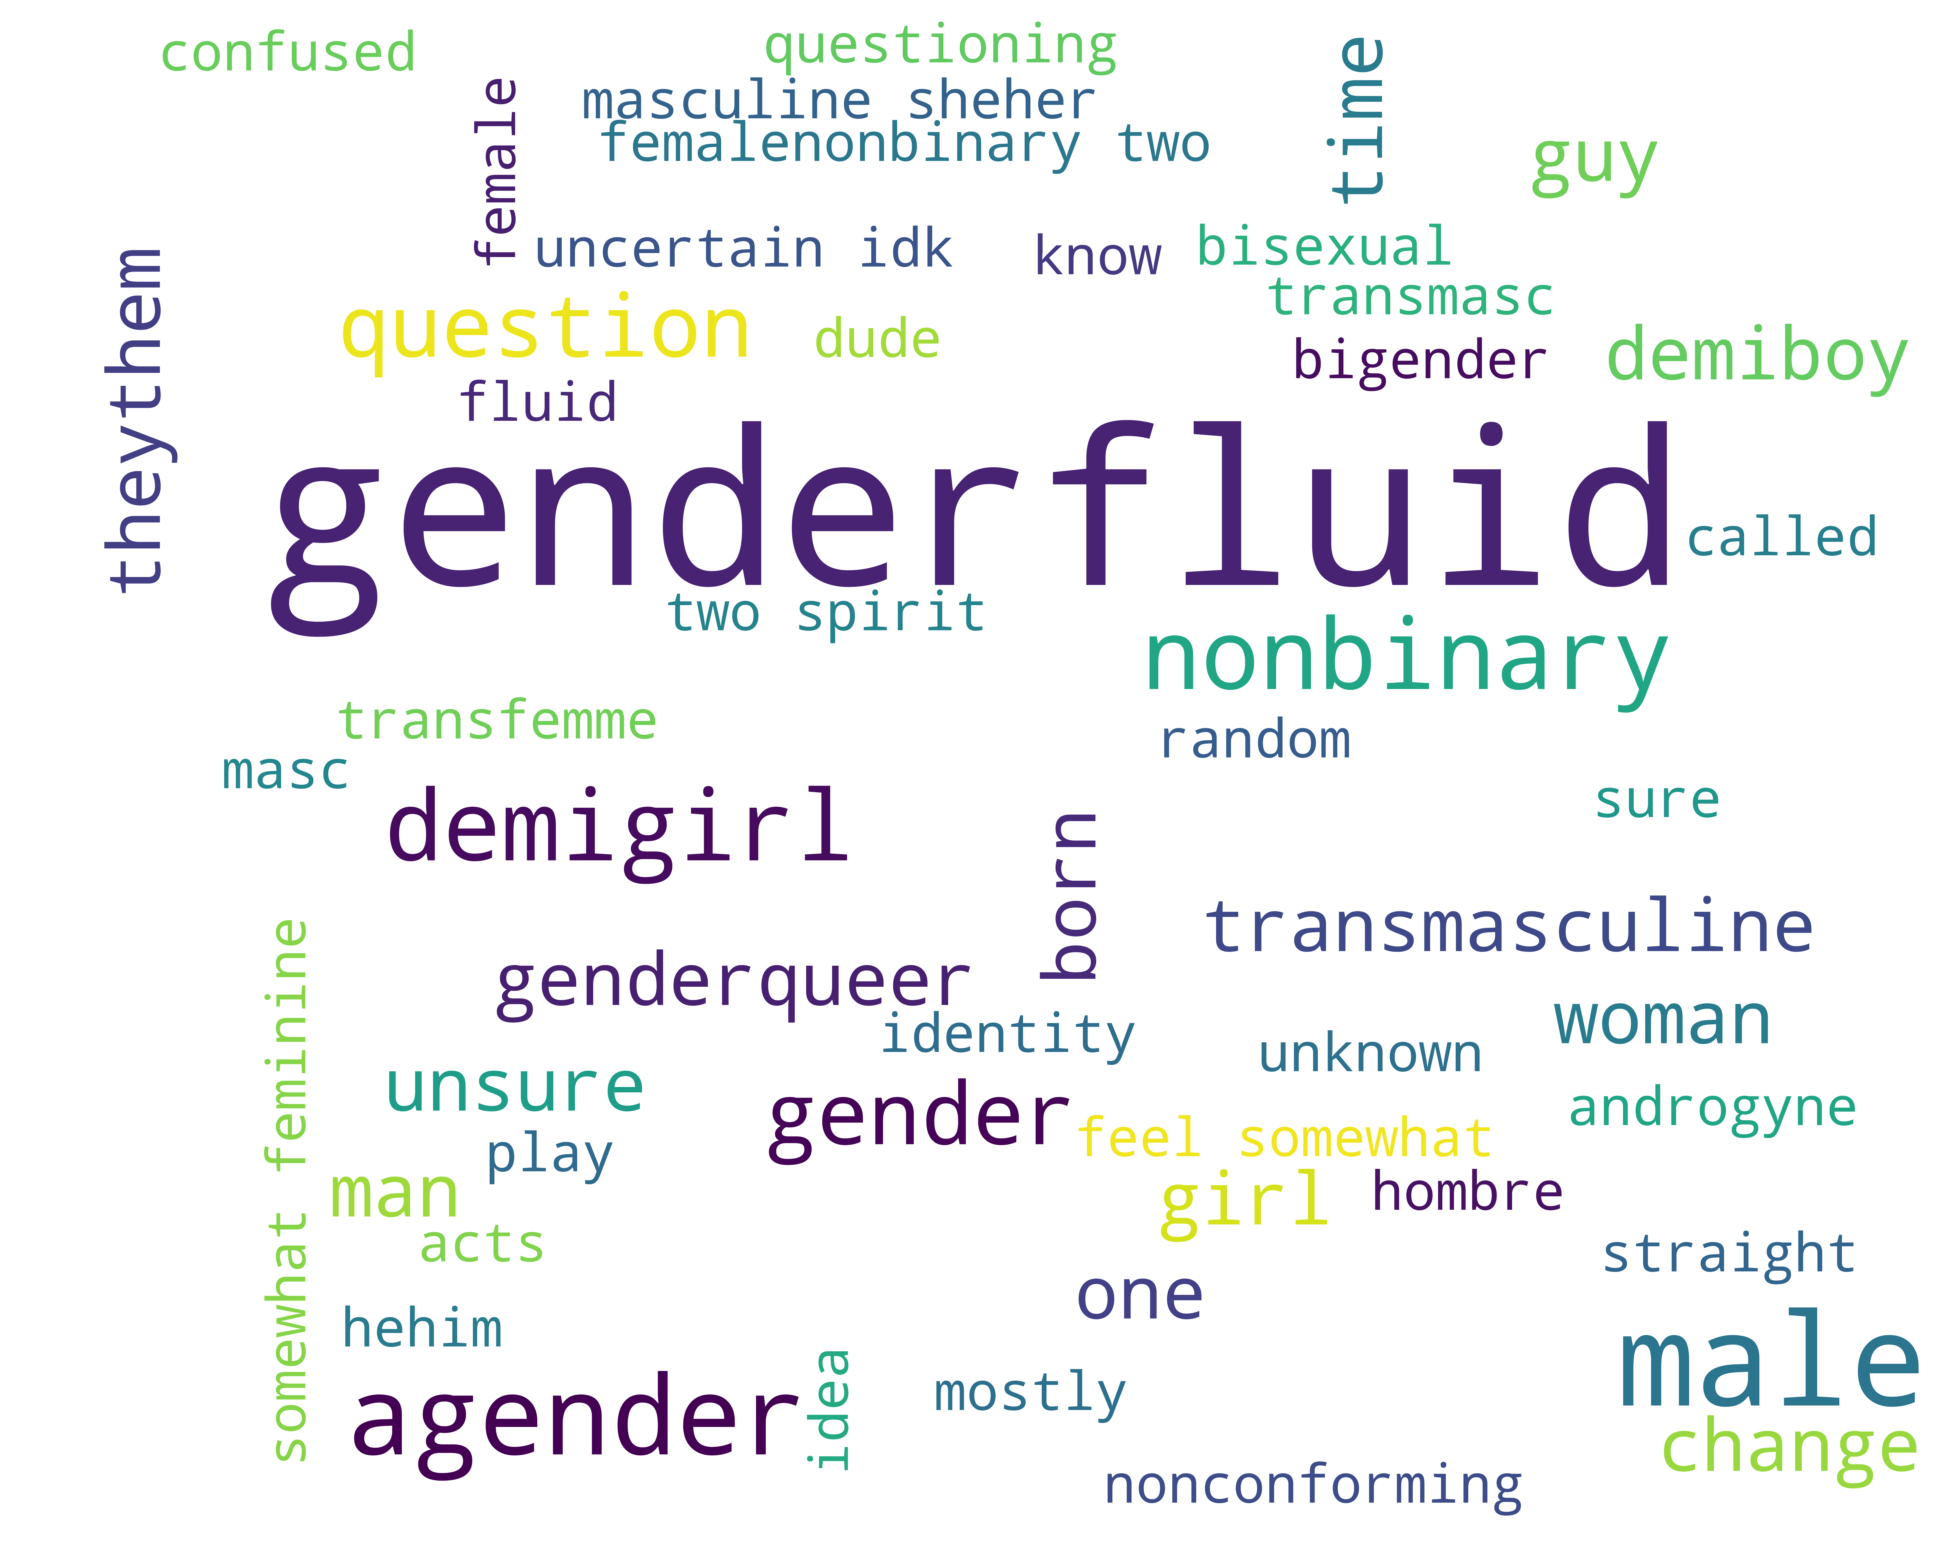
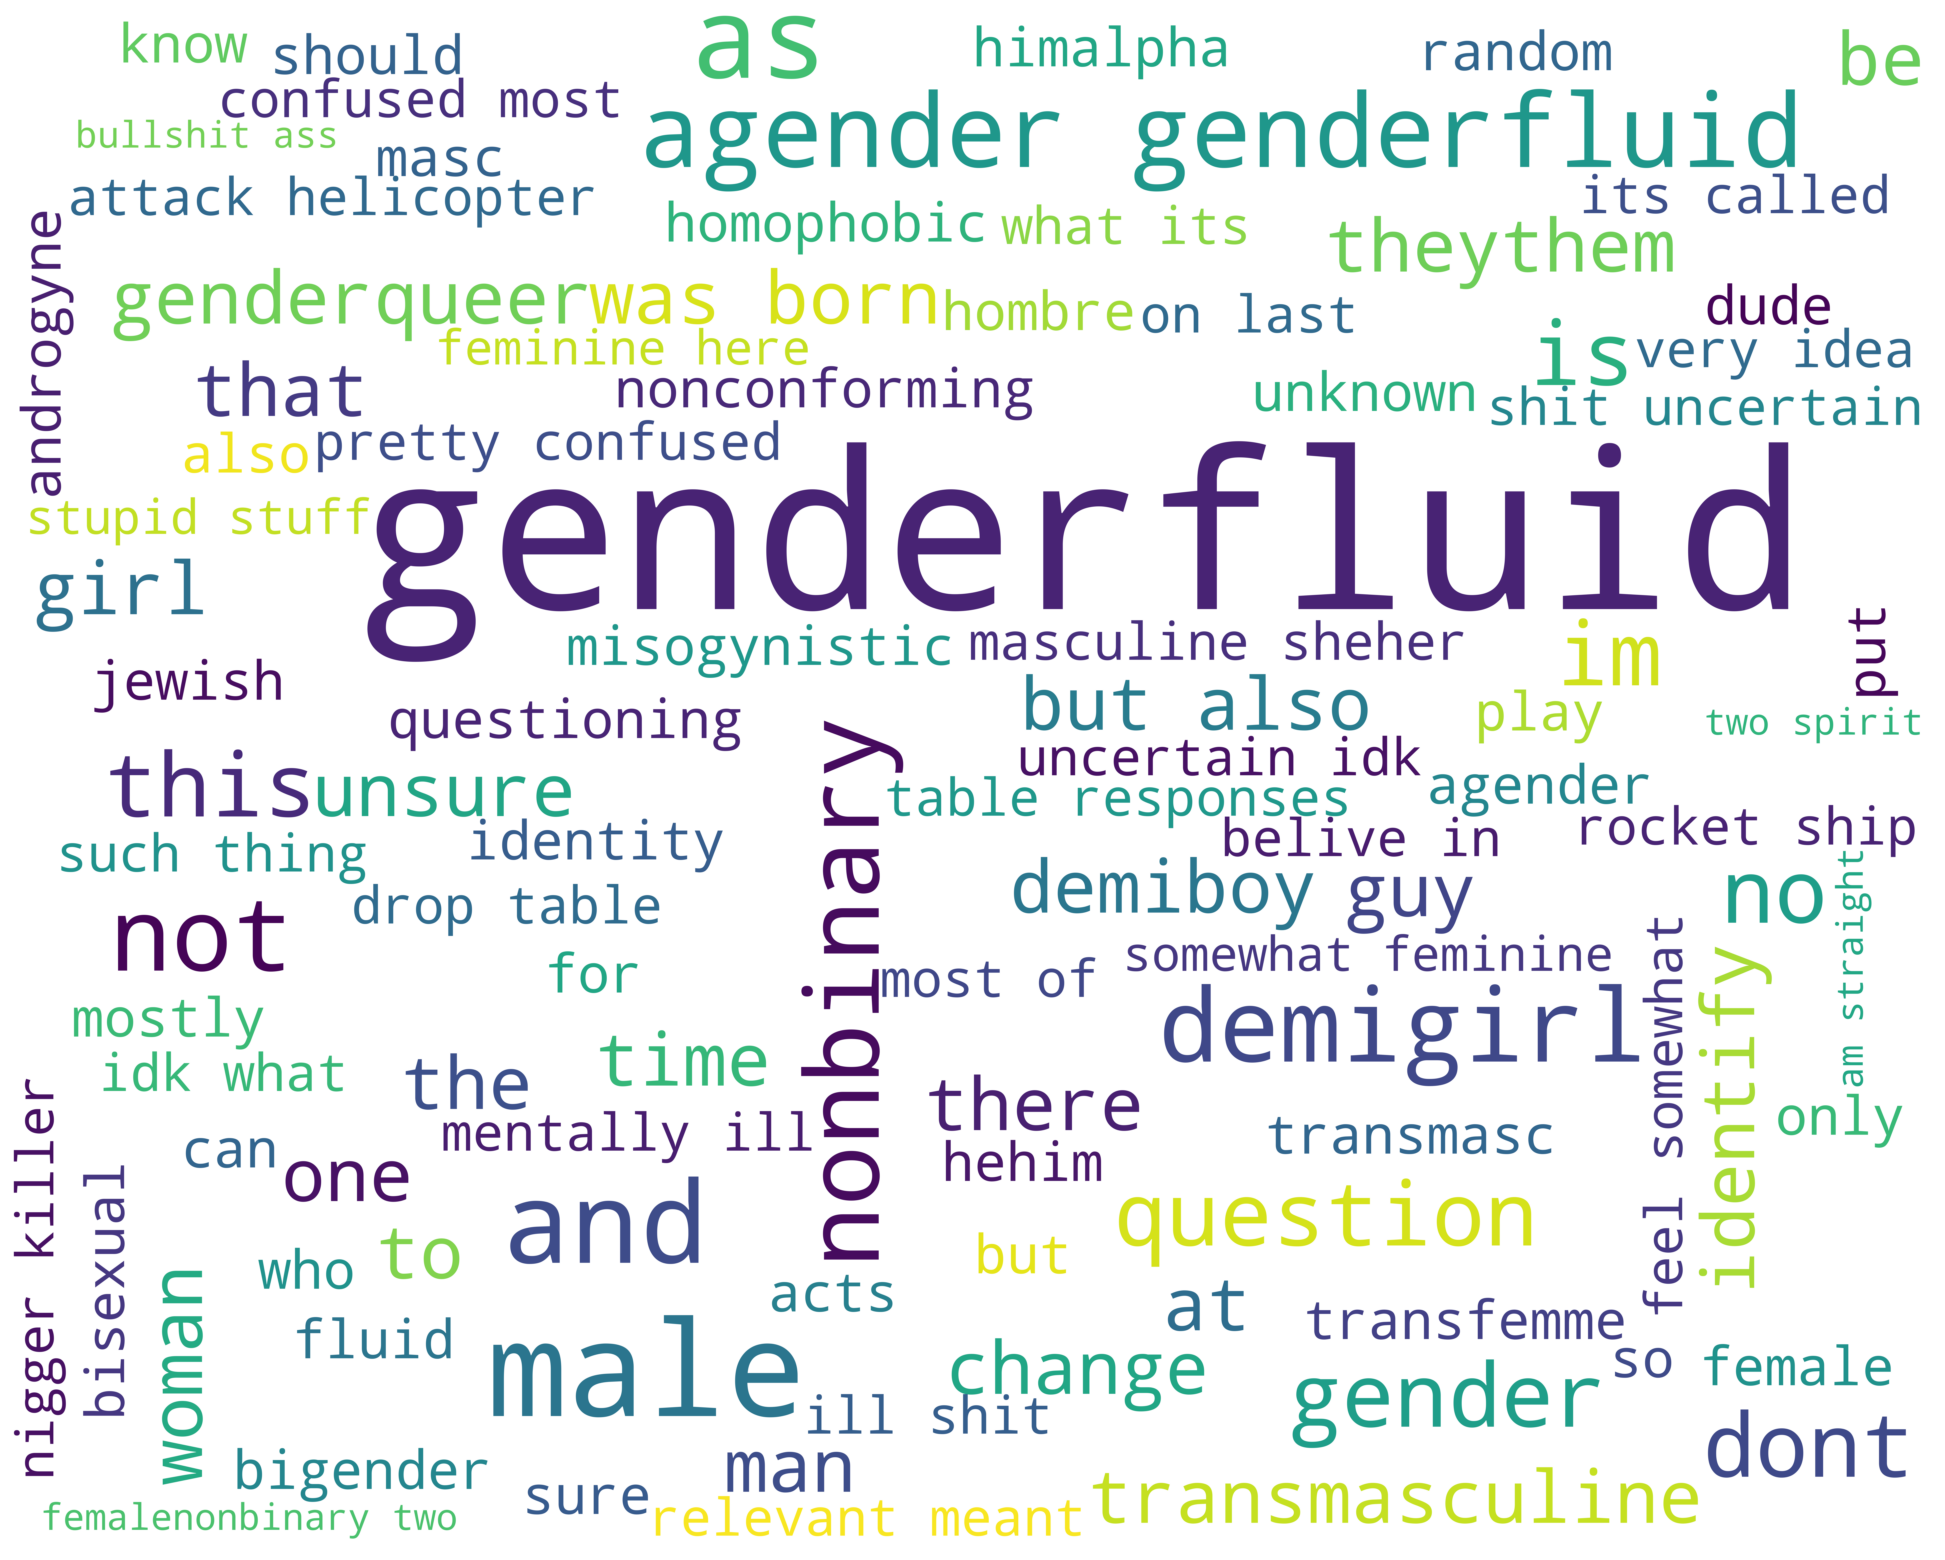
add code for n-grams

diff --git a/do/learn/gen_wordcloud.py b/do/learn/gen_wordcloud.py
@@ -11,6 +11,8 @@ from PIL import ImageDraw
 from PIL import ImageFont
 from openpyxl import Workbook
 import xlsxwriter
+from sklearn.feature_extraction.text import CountVectorizer
+
 
 #url = "https://www.stata.com/new-in-stata/python-integration/"    
 #html = requests.get(url)  
@@ -23,6 +25,7 @@ from sfi import Macro
 wordvar = sys.argv[1]
 filevar = sys.argv[2]
 freq_path = sys.argv[3]
+ngram_path = sys.argv[4]
 
 # this is a list in python 
 rawtext = Data.get(wordvar)
@@ -44,7 +47,7 @@ stop_words = ["IM", "PRETTY", "HIMALPHA", "NO'", "FINANCIAL", "AID", "COLLEGE", 
 
 
 
-wordcloud = WordCloud(width=1000, height=800, min_font_size=15, stopwords=stop_words, random_state=1, collocations=True, collocation_threshold=10, scale=15, background_color="white").generate(text)
+wordcloud = WordCloud(width=1000, height=800, min_font_size=15, stopwords='english', random_state=1, collocations=True, collocation_threshold=10, scale=15, background_color="white").generate(text)
 
 # create a dictionary of word frequencies
 text_dictionary = wordcloud.process_text(text)
@@ -59,8 +62,8 @@ word_freq_list = list(word_freq.items())
 rel_freq_list = list(rel_freq.items())
 
 #print results
-print(word_freq_list)
-print(rel_freq_list)
+# print(word_freq_list)
+# print(rel_freq_list)
 
 # convert lists to pandas data frames
 word_freq_df = pd.DataFrame(word_freq_list, columns=["Word", "Frequency"])
@@ -68,6 +71,31 @@ word_freq_df = pd.DataFrame(word_freq_list, columns=["Word", "Frequency"])
 # output dataframes to excel
 word_freq_df.to_excel(freq_path, index=False)
 
+
+# Use count vectorizer to extract n-grams
+def get_n_grams(corpus, n):
+    vec = CountVectorizer(ngram_range=(n,n), stop_words=stop_words)
+    bag_of_words = vec.fit_transform(corpus)
+    counts_list = bag_of_words.toarray().sum(axis=0) 
+    words_list = vec.get_feature_names()
+    #print(vec.vocabulary_.items())
+    words_freq = dict(zip(words_list, counts_list))
+    # freq =sorted(words_freq, key = lambda x: x[1], reverse=True)
+    return words_freq
+
+ngram_freq_dict= dict()
+
+# append all n-gram dictionaries
+for n in range(1, 5):
+    ngram_freq_dict.update(get_n_grams(rawtext, n))
+print(ngram_freq_dict)
+
+# convert dictionary into list 
+ngram_freq_list = [(k,v) for k,v in sorted(ngram_freq_dict.items(), reverse=True, key=lambda item: item[1])]
+
+df1 = pd.DataFrame(ngram_freq_list, columns = ['narrative' , 'count'])
+# output to excel 
+df1.to_excel(ngram_path, index=False)
 
 from sfi import Platform
 import matplotlib
